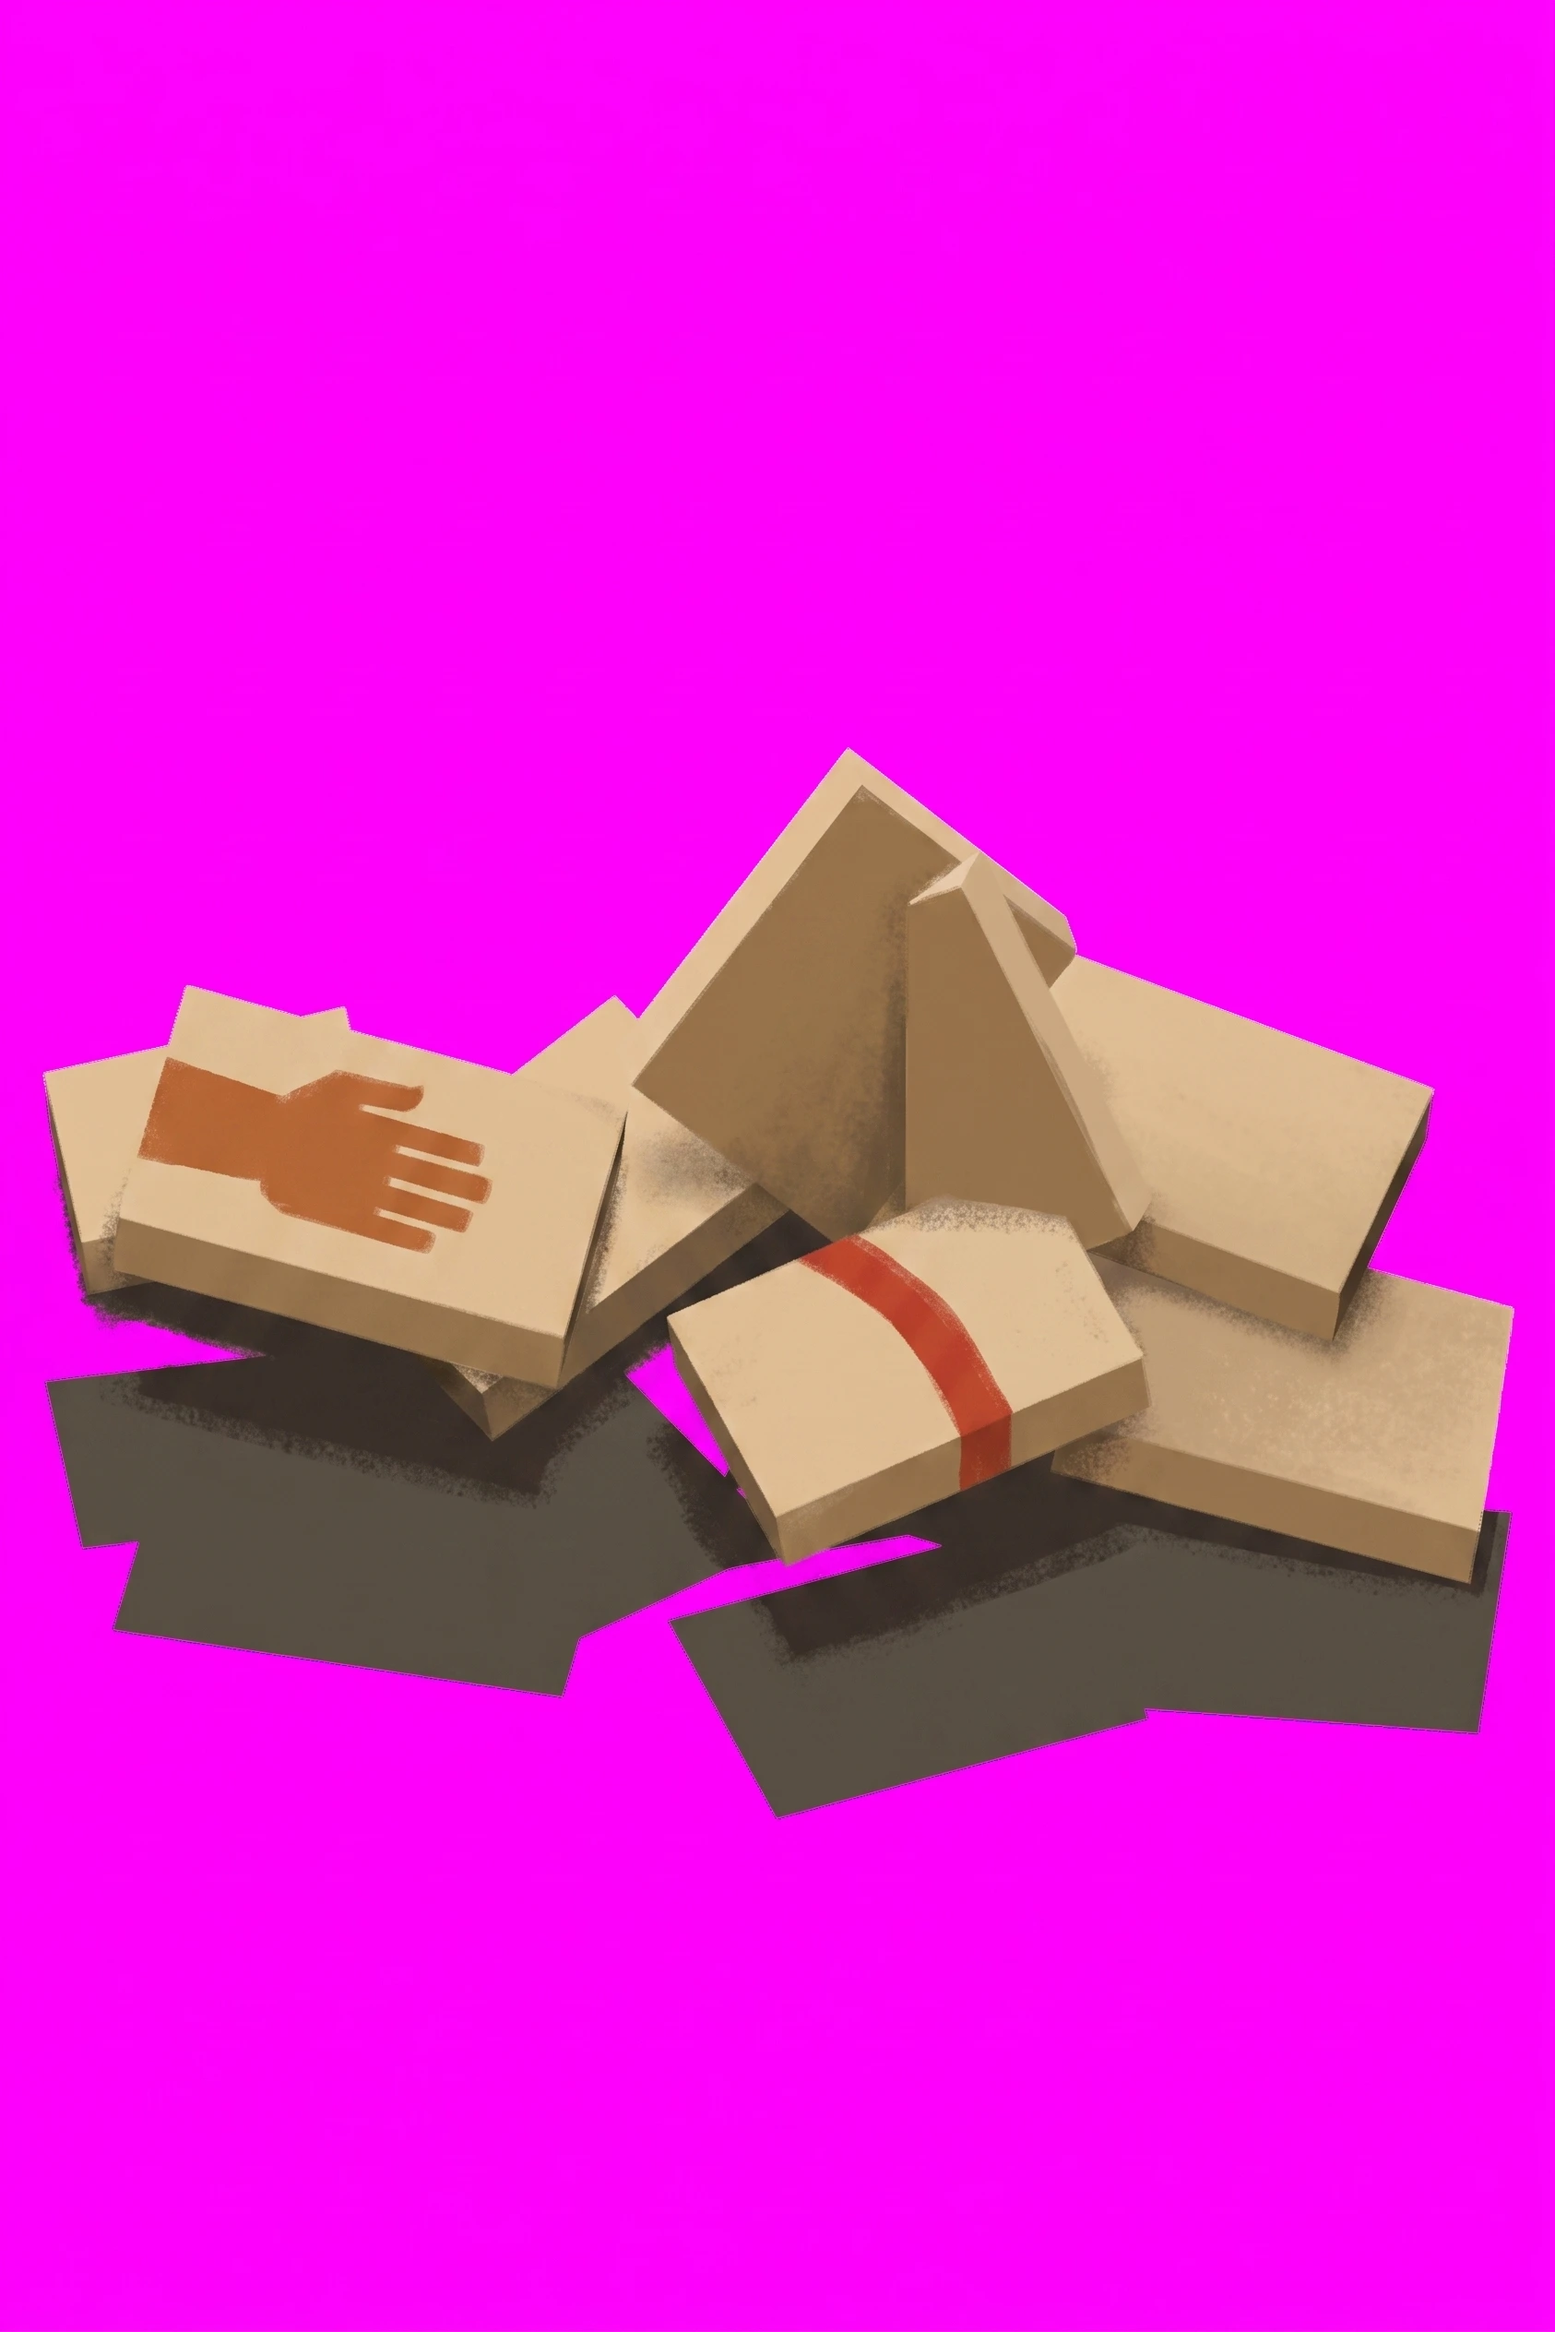
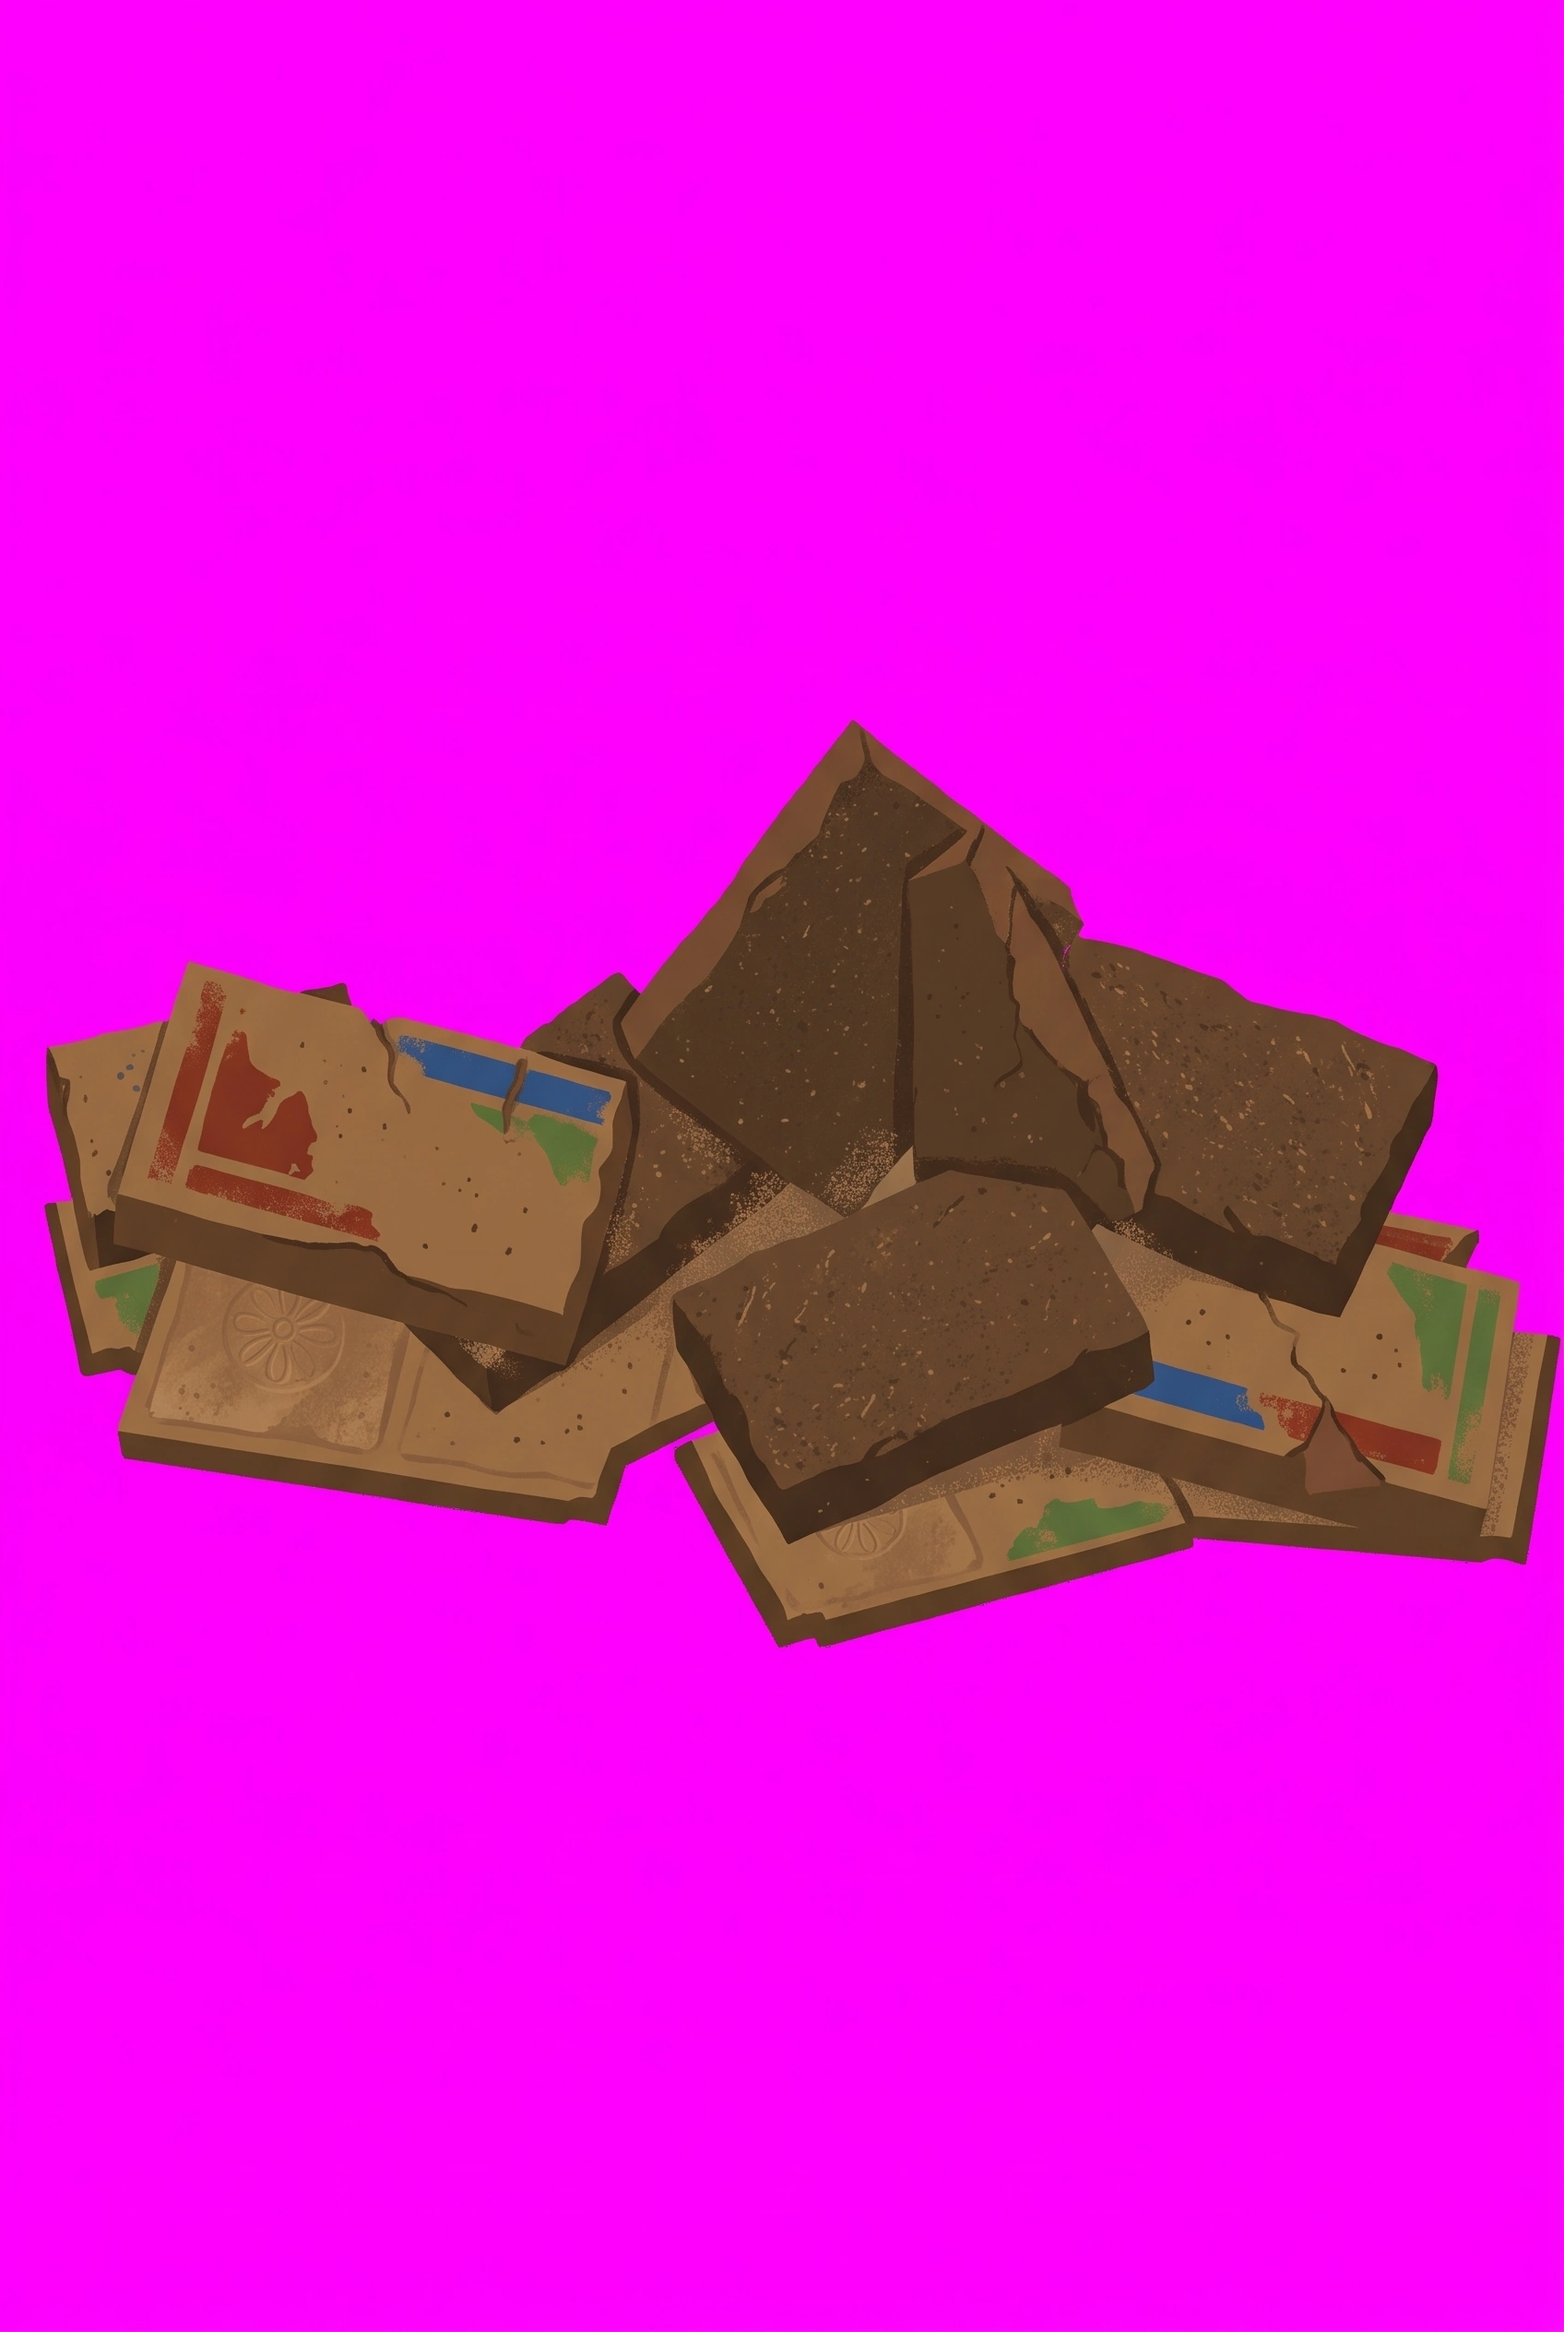
art: junior plaster rubble pile
Claude-Session: https://claude.ai/code/session_01F6g2diRzQCzQwEf9zsEEGH

Changed region(s): [[0.0308, 0.3125, 1.0, 0.7812]]

diff --git a/docs/instructions/repaint-queue.md b/docs/instructions/repaint-queue.md
@@ -483,7 +483,7 @@ Even lighting left to right, no hotspot, no vignette.
 
 ---
 
-## Nobleman — twenty-four
+## Nobleman — twenty-three
 
 The nobleman's existing props, repainted for the rank's new light orange floor. Each is its own thing
 first: cedar is cedar, linen is linen, pottery is pottery, painted in red ochre, Egyptian blue and leaf
@@ -506,38 +506,6 @@ The last nine are the house's own kinds, new with its activities ([themed-rooms.
 § Junior): each has a primitive of its own in `renderProp.py` and a guarded block in `art/rebuild.sh`. The
 banquet table and the bed are two cells across, so their frame is landscape three by two; the harp and the
 potted tree stand a cell taller, so theirs is portrait two by five.
-
-### `junior/rubblePile` — fallen painted plaster
-
-**Re-roll:** the rank's palette moved (2026-11-03, `Topology/Palette moodboard`). Repainted against the new light orange floor, in its own material's colours; copper only as a trim.
-
-**Attach:**
-
-1. `~/tile-previews/rubblePile-junior.png` — the scaffold
-2. `~/tile-previews/junior-plain.png` — the material reference
-
-```
-A wall-less product shot of a single object, painted in flat matte gouache, no background, on pure magenta #FF00FF. Portrait, two units wide by three tall, exactly as the reference. Do not re-compose it into a square. Paint over the reference image itself.
-
-The object: a heap of FALLEN PLASTER and the mudbrick behind it.
-
-The broken pieces are mud plaster, #7e5a3a on their faces, still carrying fragments of painting (red
-ochre #8a3a2a, Egyptian blue #2a5a9a, a bit of leaf green) and their broken edges raw brown #6e4a30.
-Mudbrick chunks among them are darker, #5a3a24. A little fine dust between the pieces, no paler than
-#9a7a5a. The heap stands clearly DARKER than the orange floor #e2a86f.
-
-Keep every edge, every proportion and every silhouette exactly as in the reference image — do not move, resize, straighten, add, remove or restyle any part of it, and do not change the angle it stands at. Paint only material and wear.
-
-No highlights, no gloss, no rim light, no ground plane, no reflections. Matte throughout, evenly lit, crisp and clean. Nobleman's house: orange sandstone, painted plaster, cedar, linen, reed and pottery, each in its OWN colours so it reads at a glance as what it is. Copper is an accent only — a rim, a band, a hasp, gone verdigris green at the edges — never a tint over the whole object.
-```
-
-Then, once the return is in `~/Downloads`:
-
-```sh
-scaffold rubblePile --contents=plaster --shadow=0.6 --colour=#7e5a3a --floor=#e2a86f
-yarn import-tile art/masters/props/junior/rubblePile.webp --tier=junior --name=rubblePile --slot=prop \
-  --filter=smooth --mask="$OBJ" --seat="$SHADOW"
-```
 
 ### `junior/jarRack` — a cedar rack of painted pottery jars
 
